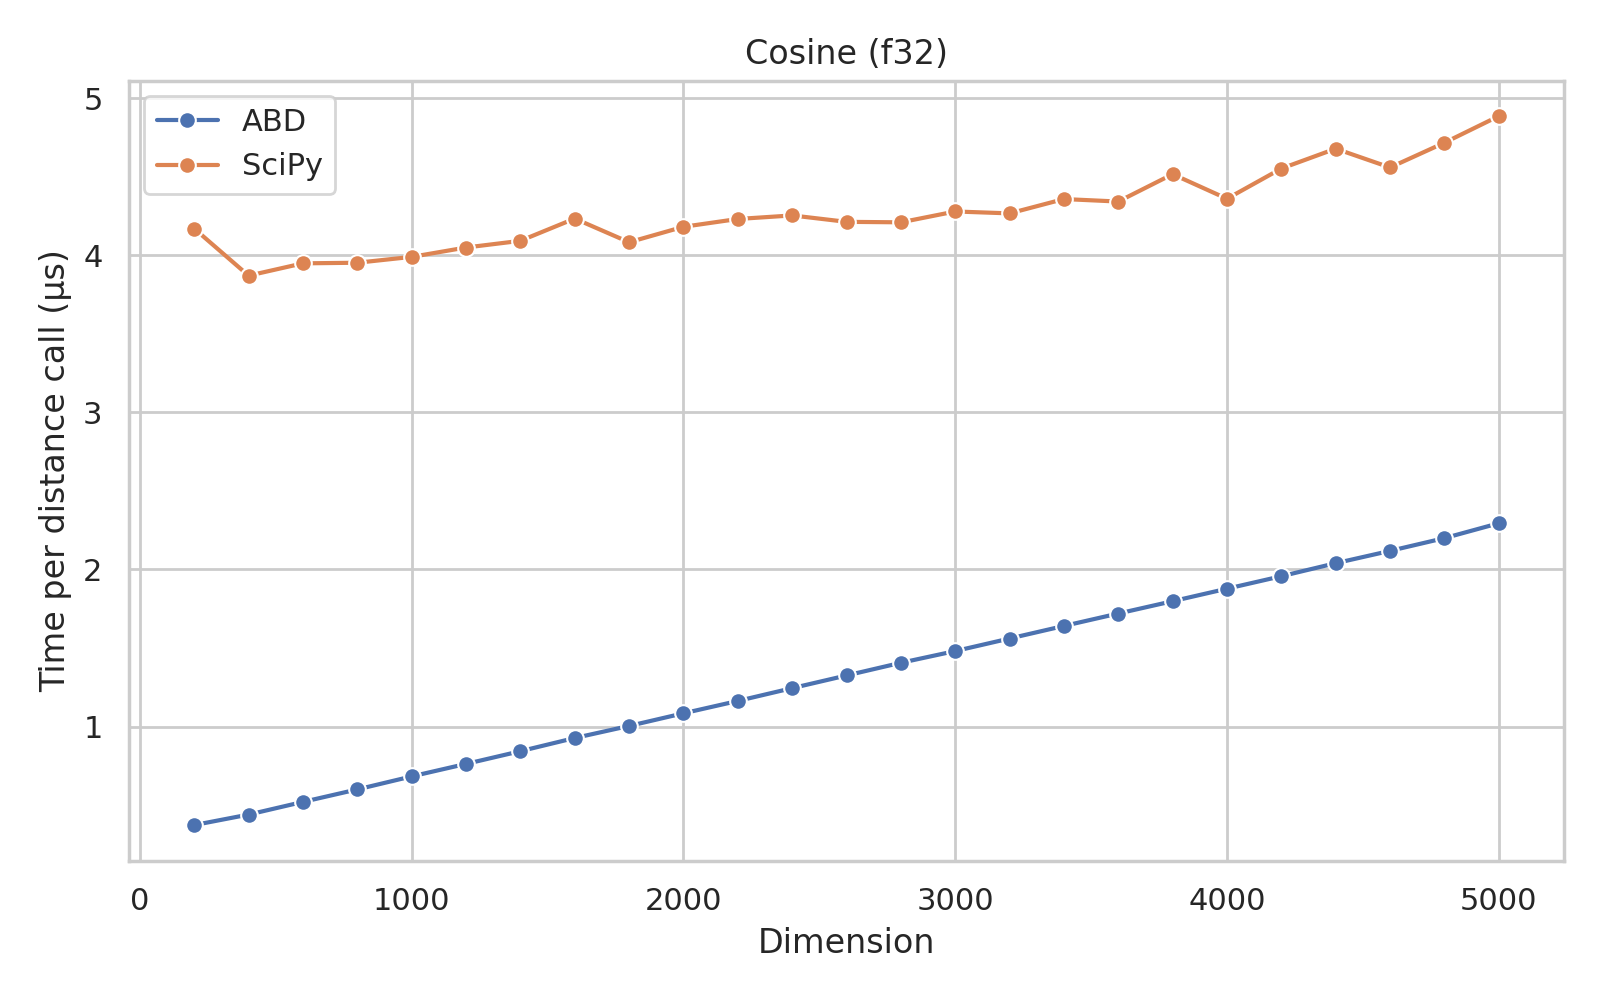
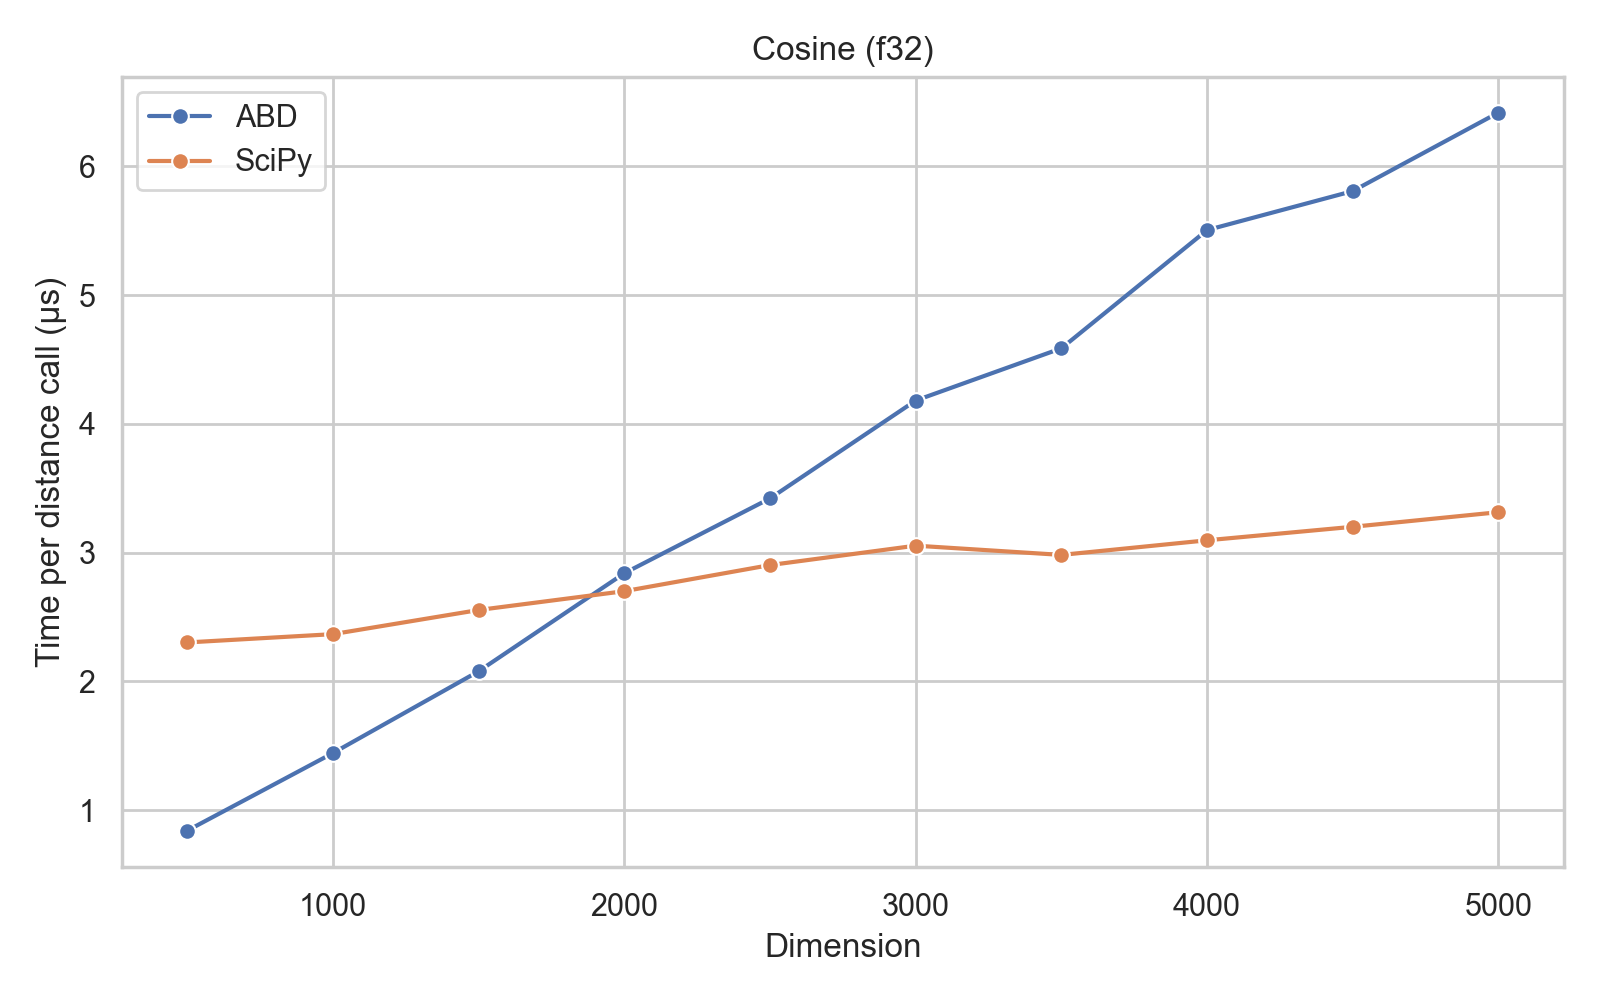
docs: added more plots

diff --git a/python/distances/plots/plot_vectors.py b/python/distances/plots/plot_vectors.py
@@ -1,0 +1,103 @@
+"""Create and save plots for SIMD-Accelerated Distance computations."""
+
+import time
+import typing
+
+import abd_distances.simd as simd_distances
+import abd_distances.vectors as vector_distances
+import numpy
+import scipy.spatial.distance as scipy_distance
+import tqdm
+
+from . import utils
+
+Functions = tuple[
+    typing.Callable[[numpy.ndarray, numpy.ndarray], float],
+    typing.Callable[[numpy.ndarray, numpy.ndarray], float],
+    typing.Callable[[int, int], numpy.ndarray],
+]
+
+
+def scipy_l3(a: numpy.ndarray, b: numpy.ndarray) -> float:
+    """Compute the L3 norm using scipy."""
+    return scipy_distance.minkowski(a, b, 3)
+
+
+def scipy_l4(a: numpy.ndarray, b: numpy.ndarray) -> float:
+    """Compute the L4 norm using scipy."""
+    return scipy_distance.minkowski(a, b, 4)
+
+
+FUNCTION_PAIRS: dict[str, Functions] = {
+    "SIMD Euclidean, f32": (simd_distances.euclidean_f32, scipy_distance.euclidean, utils.data_f32),  # noqa: E501
+    "SIMD Euclidean, f64": (simd_distances.euclidean_f64, scipy_distance.euclidean, utils.data_f64),  # noqa: E501
+    "SIMD Squared Euclidean, f32": (simd_distances.euclidean_sq_f32, scipy_distance.sqeuclidean, utils.data_f32),  # noqa: E501
+    "SIMD Squared Euclidean, f64": (simd_distances.euclidean_sq_f64, scipy_distance.sqeuclidean, utils.data_f64),  # noqa: E501
+    "SIMD Cosine, f32": (simd_distances.cosine_f32, scipy_distance.cosine, utils.data_f32),  # noqa: E501
+    "SIMD Cosine, f64": (simd_distances.cosine_f64, scipy_distance.cosine, utils.data_f64),  # noqa: E501
+    "Chebyshev, f32": (vector_distances.chebyshev_f32, scipy_distance.chebyshev, utils.data_f32),  # noqa: E501
+    "Chebyshev, f64": (vector_distances.chebyshev_f64, scipy_distance.chebyshev, utils.data_f64),  # noqa: E501
+    "Euclidean, f32": (vector_distances.euclidean_f32, scipy_distance.euclidean, utils.data_f32),  # noqa: E501
+    "Euclidean, f64": (vector_distances.euclidean_f64, scipy_distance.euclidean, utils.data_f64),  # noqa: E501
+    "Squared Euclidean, f32": (vector_distances.euclidean_sq_f32, scipy_distance.sqeuclidean, utils.data_f32),  # noqa: E501
+    "Squared Euclidean, f64": (vector_distances.euclidean_sq_f64, scipy_distance.sqeuclidean, utils.data_f64),  # noqa: E501
+    "L3, f32": (vector_distances.l3_distance_f32, scipy_l3, utils.data_f32),  # noqa: E501
+    "L3, f64": (vector_distances.l3_distance_f64, scipy_l3, utils.data_f64),  # noqa: E501
+    "L4, f32": (vector_distances.l4_distance_f32, scipy_l4, utils.data_f32),  # noqa: E501
+    "L4, f64": (vector_distances.l4_distance_f64, scipy_l4, utils.data_f64),  # noqa: E501
+    "Manhattan, f32": (vector_distances.manhattan_f32, scipy_distance.cityblock, utils.data_f32),  # noqa: E501
+    "Manhattan, f64": (vector_distances.manhattan_f64, scipy_distance.cityblock, utils.data_f64),  # noqa: E501
+    "Canberra, f32": (vector_distances.canberra_f32, scipy_distance.canberra, utils.data_f32),  # noqa: E501
+    "Canberra, f64": (vector_distances.canberra_f64, scipy_distance.canberra, utils.data_f64),  # noqa: E501
+    "Cosine, f32": (vector_distances.cosine_f32, scipy_distance.cosine, utils.data_f32),  # noqa: E501
+    "Cosine, f64": (vector_distances.cosine_f64, scipy_distance.cosine, utils.data_f64),  # noqa: E501
+    "Bray-Curtis, u32": (vector_distances.bray_curtis_u32, scipy_distance.braycurtis, utils.data_u32),  # noqa: E501
+    "Bray-Curtis, u64": (vector_distances.bray_curtis_u64, scipy_distance.braycurtis, utils.data_u64),  # noqa: E501
+    "Hamming, i32": (vector_distances.hamming_i32, scipy_distance.hamming, utils.data_i32),  # noqa: E501
+    "Hamming, i64": (vector_distances.hamming_i64, scipy_distance.hamming, utils.data_i64),  # noqa: E501
+}
+
+
+def make_plots() -> None:
+    """Plot SIMD speedup for various distance computations."""
+    for name, (abd_func, scipy_func, gen_data) in tqdm.tqdm(
+        FUNCTION_PAIRS.items(),
+        desc="Vector Distances",
+    ):
+        [dist_name, dtype] = name.split(", ")
+        dist_name = "-".join(dist_name.split(" "))
+
+        x: list[int] = []
+        y_abd: list[float] = []
+        y_scipy: list[float] = []
+
+        car = 100
+        for d in range(5, 51, 5):
+            dim = d * 100
+            data = gen_data(car, dim)
+
+            start = time.perf_counter_ns()
+            for a in data:
+                for b in data:
+                    _ = abd_func(a, b)
+            end_abd = float(time.perf_counter_ns() - start)
+            end_abd = end_abd / (car ** 2) / 1000
+
+            start = time.perf_counter_ns()
+            for a in data:
+                for b in data:
+                    _ = scipy_func(a, b)
+            end_scipy = float(time.perf_counter_ns() - start)
+            end_scipy = end_scipy / (car ** 2) / 1000
+
+            x.append(dim)
+            y_abd.append(end_abd)
+            y_scipy.append(end_scipy)
+
+        utils.make_plot(
+            x=x,
+            y_abd=y_abd,
+            y_scipy=y_scipy,
+            fn_name=dist_name,
+            dt_name=dtype,
+        )

diff --git a/python/distances/plots/utils.py b/python/distances/plots/utils.py
@@ -1,6 +1,7 @@
 """Plotting utilities for the benchmarks."""
 
 import pathlib
+import typing
 
 import numpy
 import seaborn
@@ -48,23 +49,33 @@ def data_u64(car: int, dim: int) -> numpy.ndarray:
     return rng.integers(0, 2, (car, dim)).astype(numpy.uint64)
 
 
-def make_plot(
+def gen_strings(car: int, dim: int, alphabet: str) -> list[str]:
+    """Return a list of random strings."""
+    rng = numpy.random.default_rng()
+    return ["".join(rng.choice(list(alphabet), dim)) for _ in range(car)]
+
+
+def make_plot(  # noqa: PLR0913
+    *,
     x: list[int],
     y_abd: list[float],
-    y_scipy: list[float],
     fn_name: str,
     dt_name: str,
+    y_scipy: typing.Optional[list[float]] = None,
+    y_units: str = "µs",
+    x_label: str = "Dimension",
 ) -> None:
     """Create and save a plot."""
     seaborn.set_theme(style="whitegrid", rc={"figure.figsize": (8, 5)})
 
     # Add lines with dots for markers
     plot = seaborn.lineplot(x=x, y=y_abd, marker="o", label="ABD")
-    plot = seaborn.lineplot(x=x, y=y_scipy, marker="o", label="SciPy")
+    if y_scipy is not None:
+        plot = seaborn.lineplot(x=x, y=y_scipy, marker="o", label="SciPy")
 
     # Set the axis labels.
-    # The x-axis is the dimension and the y-axis is the time in microseconds.
-    plot.set(xlabel="Dimension", ylabel="Time per distance call (µs)")
+    # The x-axis is the dimension and the y-axis is the time.
+    plot.set(xlabel=x_label, ylabel=f"Time per distance call ({y_units})")
 
     # Set the title
     plot.set_title(f"{fn_name} ({dt_name})")

diff --git a/python/distances/plots/plot_strings.py b/python/distances/plots/plot_strings.py
@@ -1,0 +1,52 @@
+"""Create and save plots for SIMD-Accelerated Distance computations."""
+
+import time
+import typing
+
+import abd_distances.strings as string_distances
+import tqdm
+
+from . import utils
+
+FUNCTIONS: dict[str, typing.Callable[[str, str], int]] = {
+    "Hamming": string_distances.hamming,
+    "Levenshtein": string_distances.levenshtein,
+    "Needleman-Wunsch": string_distances.needleman_wunsch,
+}
+
+
+def make_plots() -> None:
+    """Plot speed of string distance computations."""
+    alphabet = "ACTGN"
+
+    for name, func in tqdm.tqdm(FUNCTIONS.items(), desc="String distances"):
+        x: list[int] = []
+        y_abd: list[float] = []
+
+        car = 10
+        str_lengths = list(range(1, 9)) + list(range(10, 51, 5))
+        str_lengths = [i * 100 for i in str_lengths]
+        for dim in str_lengths:
+            data = utils.gen_strings(car, dim, alphabet)
+
+            start = time.perf_counter()
+            for a in data:
+                for b in data:
+                    _ = func(a, b)
+            end = float(time.perf_counter() - start) * 1000
+            if "hamming" in name.lower():
+                end *= 1000
+            end = end / (car ** 2)
+
+            x.append(dim)
+            y_abd.append(end)
+
+        y_units = "µs" if "hamming" in name.lower() else "ms"
+        utils.make_plot(
+            x=x,
+            y_abd=y_abd,
+            fn_name=name,
+            dt_name="str",
+            y_units=y_units,
+            x_label="String Length",
+        )

diff --git a/python/distances/plots/__main__.py b/python/distances/plots/__main__.py
@@ -1,11 +1,13 @@
 """CLI for making plots."""
 
-from . import plots_simd
+from . import plot_strings
+from . import plot_vectors
 
 
 def main() -> None:
     """Run the CLI."""
-    plots_simd.make_plots()
+    plot_strings.make_plots()
+    plot_vectors.make_plots()
 
 
 if __name__ == "__main__":

diff --git a/python/distances/plots/__init__.py b/python/distances/plots/__init__.py
@@ -1,4 +1,5 @@
 """Plots for benchmarks in README.md."""
 
-from . import plots_simd
+from . import plot_strings
+from . import plot_vectors
 from . import utils

diff --git a/python/distances/README.md b/python/distances/README.md
@@ -33,22 +33,22 @@ The OS was Arch Linux, with kernel version 6.7.4-arch1-1.
 
 <table>
 <tr>
-<th> F32 </th>
-<th> F64 </th>
+<th> f32 </th>
+<th> f64 </th>
 </tr>
 <tr>
 <td>
 
-![Euclidean f32](images/Euclidean_f32.png)
-![Squared Euclidean f32](images/SquaredEuclidean_f32.png)
-![Cosine f32](images/Cosine_f32.png)
+![Euclidean f32](images/SIMD-Euclidean_f32.png)
+![Squared Euclidean f32](images/SIMD-Squared-Euclidean_f32.png)
+![Cosine f32](images/SIMD-Cosine_f32.png)
 
 </td>
 <td>
 
-![Euclidean f64](images/Euclidean_f64.png)
-![Squared Euclidean f64](images/SquaredEuclidean_f64.png)
-![Cosine f64](images/Cosine_f64.png)
+![Euclidean f64](images/SIMD-Euclidean_f64.png)
+![Squared Euclidean f64](images/SIMD-Squared-Euclidean_f64.png)
+![Cosine f64](images/SIMD-Cosine_f64.png)
 
 </td>
 </tr>
@@ -56,7 +56,88 @@ The OS was Arch Linux, with kernel version 6.7.4-arch1-1.
 
 ### Vector Distance Benchmarks (No SIMD)
 
-TODO: Add benchmarks for non-SIMD vector distances.
+<table>
+<tr>
+<th> F32 </th>
+<th> F64 </th>
+</tr>
+<tr>
+<td>
+
+![Chebyshev f32](images/Chebyshev_f32.png)
+![Euclidean f32](images/Euclidean_f32.png)
+![Squared Euclidean f32](images/Squared-Euclidean_f32.png)
+![L3 f32](images/L3_f32.png)
+![L4 f32](images/L4_f32.png)
+![Manhattan f32](images/Manhattan_f32.png)
+![Canberra f32](images/Canberra_f32.png)
+![Cosine f32](images/Cosine_f32.png)
+
+</td>
+<td>
+
+![Chebyshev f64](images/Chebyshev_f64.png)
+![Euclidean f64](images/Euclidean_f64.png)
+![Squared Euclidean f64](images/Squared-Euclidean_f64.png)
+![L3 f64](images/L3_f64.png)
+![L4 f64](images/L4_f64.png)
+![Manhattan f64](images/Manhattan_f64.png)
+![Canberra f64](images/Canberra_f64.png)
+![Cosine f64](images/Cosine_f64.png)
+
+</td>
+</tr>
+</table>
+
+<table>
+<tr>
+<th> u32 </th>
+<th> u64 </th>
+</tr>
+<tr>
+<td>
+
+![Bray-Curtis u32](images/Bray-Curtis_u32.png)
+
+</td>
+<td>
+
+![Bray-Curtis u64](images/Bray-Curtis_u64.png)
+
+</td>
+</tr>
+</table>
+
+<table>
+<tr>
+<th> i32 </th>
+<th> i64 </th>
+</tr>
+<tr>
+<td>
+
+![Hamming i32](images/Hamming_i32.png)
+
+</td>
+<td>
+
+![Hamming i64](images/Hamming_i64.png)
+
+</td>
+</tr>
+</table>
+
+### String Distance Benchmarks
+
+These benchmarks were run on an Intel Core i7-11700KF CPU @ 4.900GHz, using a single thread.
+The OS was Arch Linux, with kernel version 6.7.4-arch1-1.
+
+All string distances were computed 100 times each, among different pairs of strings, and the average time was taken.
+
+![Hamming](images/Hamming_str.png)
+![Levenshtein](images/Levenshtein_str.png)
+![Needleman-Wunsch](images/Needleman-Wunsch_str.png)
+
 
 ## License
 
